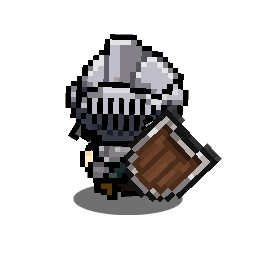
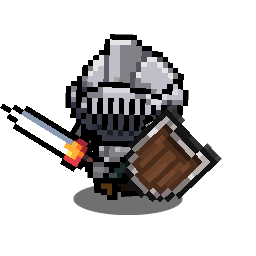
fix: render outfits as full-body composites, not race-form + overlays
Root cause of every outfit clipping report (knight hand poking out,
pink_archer showing blonde elf hair, dark_knight body bleeding past
horns): the equipment overlay system only covers Head/Chest/Legs/
Wrists/Feet/Weapon slots, so anything an outfit changes outside those
slots — hair, skin tone, ears, body markings, accessories — leaks
from the underlying race form. No amount of bald / armless variants
fixes this; the architecture itself can't transplant a character.

Every shop set and the Knight Set already has a pre-baked full-body
composite at Sets/<id>.png (the same image the Inventory cell shows).
ApplyAvatarLook now picks one of three render paths:

  1. activeSkin → Skins/<id>.png (existing)
  2. equipped exactly matches a SetDef → Sets/<set.id>.png (new)
  3. bare race form + per-slot overlays (legacy partial-equip path)

(2) hides all equipment overlay Images and uses the composite as the
sole portrait. Same shape as the skin path. The Knight Set composite
is re-baked via a new BakeCompose helper that renders human_11 (armor
+ shield) and elf_07's longsword in the same scene so the chain-quest
reward looks like a full silver knight with sword AND shield, instead
of human_11's empty-R_Weapon IDLE.

GamexGame.FindActiveOutfit(equipped) walks SetCatalog + KnightOutfit
to find the SetDef whose pieces fully match the equipped list.

The bald race-form variants and helmetEquipped portrait swap stay in
place — they still help the legacy partial-equip path (1 helmet w/o
[…]

Changed region(s): [[0.0, 0.4062, 0.375, 0.6875]]

diff --git a/Assets/_Game/Scripts/Editor/SPUMBaker.cs b/Assets/_Game/Scripts/Editor/SPUMBaker.cs
@@ -290,25 +290,27 @@ namespace Gamex.EditorTools
             EditorApplication.Exit(0);
         }
 
-        // Full-character Knight Set preview for the Inventory cell — same
-        // BakeOne(keepEquip:true) pipeline the shop sets use. Source is
-        // human_11 (silver bucket-helm + plate); the chain-quest sword from
-        // elf_07 isn't included because BakeOne only renders one prefab and
-        // human_11's IDLE pose reads as "the knight" without the sword.
+        // Full-character Knight Set preview for the Inventory paper-doll —
+        // human_11 (silver bucket-helm + plate + shield) composed with
+        // elf_07's right-hand silver longsword in one render so the
+        // composite reads as the full knight loadout. Both prefabs share
+        // the SPUM coordinate system so the overlay sword lands in the
+        // right-hand position.
         [MenuItem("Tools/Gamex/Bake Knight Set Preview")]
         public static void BakeKnightSetPreview()
         {
             string setsRoot = "Assets/_Game/Resources/Sets";
             Directory.CreateDirectory(setsRoot);
-            var prefab = AssetDatabase.LoadAssetAtPath<GameObject>(KNIGHT_PREFAB_ARMOR);
-            if (prefab == null)
+            var mainPrefab    = AssetDatabase.LoadAssetAtPath<GameObject>(KNIGHT_PREFAB_ARMOR);
+            var overlayPrefab = AssetDatabase.LoadAssetAtPath<GameObject>(KNIGHT_PREFAB_SWORD);
+            if (mainPrefab == null || overlayPrefab == null)
             {
-                Debug.LogError("[SPUMBaker] knight preview prefab not found: " + KNIGHT_PREFAB_ARMOR);
+                Debug.LogError("[SPUMBaker] knight preview prefab missing: armor=" + (mainPrefab == null) + " sword=" + (overlayPrefab == null));
                 return;
             }
             string outPath = $"{setsRoot}/knight_silver_set.png";
-            BakeOne(prefab, outPath, keepEquip: true);
-            Debug.Log("[SPUMBaker] knight_silver_set.png  <-  " + Path.GetFileName(KNIGHT_PREFAB_ARMOR));
+            BakeCompose(mainPrefab, overlayPrefab, outPath, new[] { "weapon" });
+            Debug.Log("[SPUMBaker] knight_silver_set.png  <-  human_11 + elf_07 sword");
             AssetDatabase.Refresh();
         }
 
@@ -495,6 +497,88 @@ namespace Gamex.EditorTools
             // without leaking, and destroy in dependency order.
             cam.targetTexture = null;
             Object.DestroyImmediate(instance);
+            Object.DestroyImmediate(camGO);
+            Object.DestroyImmediate(rt);
+            Object.DestroyImmediate(tex);
+        }
+
+        // Composite bake: render mainPrefab (full gear) with overlayPrefab's
+        // matching SRs drawn into the same image. Used when one SPUM prefab
+        // is missing a piece the equippable set should have — e.g. human_11
+        // (knight armor) has an empty R_Weapon in IDLE, so we add elf_07's
+        // longsword from the same coordinate space.
+        static void BakeCompose(GameObject mainPrefab, GameObject overlayPrefab, string outPath, string[] overlayKeys)
+        {
+            EditorSceneManager.NewScene(NewSceneSetup.EmptyScene, NewSceneMode.Single);
+
+            var main = (GameObject)PrefabUtility.InstantiatePrefab(mainPrefab);
+            main.transform.position   = Vector3.zero;
+            main.transform.localScale = Vector3.one;
+
+            var overlay = (GameObject)PrefabUtility.InstantiatePrefab(overlayPrefab);
+            overlay.transform.position   = Vector3.zero;
+            overlay.transform.localScale = Vector3.one;
+
+            // Strip the overlay prefab to only the SRs that match overlayKeys
+            // (chain-walked, case-insensitive). The activation-up-the-tree is
+            // needed because parents can be SetActive(false) in the prefab.
+            foreach (var sr in overlay.GetComponentsInChildren<SpriteRenderer>(true))
+            {
+                string chain = "";
+                for (var t = sr.transform; t != null; t = t.parent)
+                    chain += "/" + t.gameObject.name.ToLowerInvariant();
+                bool keep = false;
+                foreach (var kw in overlayKeys)
+                    if (chain.Contains(kw.ToLowerInvariant())) { keep = true; break; }
+                sr.enabled = keep;
+                if (keep)
+                {
+                    for (var t = sr.transform; t != null && t != overlay.transform.parent; t = t.parent)
+                        if (!t.gameObject.activeSelf) t.gameObject.SetActive(true);
+                }
+            }
+
+            var camGO = new GameObject("BakeCam");
+            var cam   = camGO.AddComponent<Camera>();
+            cam.orthographic       = true;
+            cam.orthographicSize   = 0.6f;
+            cam.transform.position = new Vector3(0f, 0.35f, -10f);
+            cam.clearFlags         = CameraClearFlags.SolidColor;
+            cam.backgroundColor    = new Color(0f, 0f, 0f, 0f);
+            cam.cullingMask        = ~0;
+
+            foreach (var anim in main.GetComponentsInChildren<Animator>())
+            {
+                if (anim.runtimeAnimatorController != null)
+                {
+                    anim.Update(0f); anim.Play(0, 0, 0f); anim.Update(0f);
+                }
+            }
+            foreach (var anim in overlay.GetComponentsInChildren<Animator>())
+            {
+                if (anim.runtimeAnimatorController != null)
+                {
+                    anim.Update(0f); anim.Play(0, 0, 0f); anim.Update(0f);
+                }
+            }
+
+            var rt = new RenderTexture(SIZE, SIZE, 32, RenderTextureFormat.ARGB32);
+            cam.targetTexture = rt;
+            cam.Render();
+
+            var prev = RenderTexture.active;
+            RenderTexture.active = rt;
+            var tex = new Texture2D(SIZE, SIZE, TextureFormat.RGBA32, false);
+            tex.ReadPixels(new Rect(0, 0, SIZE, SIZE), 0, 0);
+            tex.Apply();
+            RenderTexture.active = prev;
+
+            Directory.CreateDirectory(Path.GetDirectoryName(outPath));
+            File.WriteAllBytes(outPath, tex.EncodeToPNG());
+
+            cam.targetTexture = null;
+            Object.DestroyImmediate(main);
+            Object.DestroyImmediate(overlay);
             Object.DestroyImmediate(camGO);
             Object.DestroyImmediate(rt);
             Object.DestroyImmediate(tex);

diff --git a/Assets/_Game/Scripts/Presentation/Hud.cs b/Assets/_Game/Scripts/Presentation/Hud.cs
@@ -2233,16 +2233,41 @@ namespace Gamex.Game
                              List<string> equipped = null, string activeSkin = null)
         {
             if (avatar == null || avatar.portrait == null) return;
-            // Skins are full-body art — their weapons/armor are painted in,
-            // so applying equipment overlays on top would clash. Skip the
-            // overlay routing entirely when a skin is active.
+
+            // Three render paths, in priority order:
+            //   1. Skin active — full-body skin sprite, no overlays
+            //   2. Outfit fully equipped — full-body set composite, no overlays
+            //   3. Race form base — race-form sprite + per-slot equipment overlays
+            //
+            // (2) is the regression fix for "outfit overlays leak the underlying
+            // race form's hair / skin / accessories". Every shop set and the
+            // Knight Set has a pre-baked Sets/<id>.png composite, so when the
+            // player has a fully matching set on we render that one sprite and
+            // skip the overlay routing entirely — same shape as the skin path.
             bool skinActive = !string.IsNullOrEmpty(activeSkin) && Make.Skin(activeSkin) != null;
-            // Helmet-on bald base swap: scan equipped for a Head slot so
-            // Make.Portrait loads {race}_{gender}_bald.png instead of the
-            // haired sprite, preventing hair from clipping through the
-            // overlay. Pre-race (Race.Unset) characters don't wear armour.
+            var activeOutfit = (!skinActive && race != Race.Unset)
+                ? GamexGame.FindActiveOutfit(equipped) : null;
+            Sprite outfitSprite = activeOutfit != null ? Make.SetPreview(activeOutfit.id) : null;
+
+            if (skinActive || outfitSprite != null)
+            {
+                avatar.portrait.sprite = outfitSprite != null ? outfitSprite : Make.Skin(activeSkin);
+                float aOverride = avatar.portrait.color.a;
+                avatar.portrait.color = new Color(1f, 1f, 1f, aOverride);
+                SetOverlay(avatar.sword,     null, aOverride);
+                SetOverlay(avatar.armor,     null, aOverride);
+                SetOverlay(avatar.helmet,    null, aOverride);
+                SetOverlay(avatar.leggings,  null, aOverride);
+                SetOverlay(avatar.gauntlets, null, aOverride);
+                SetOverlay(avatar.boots,     null, aOverride);
+                return;
+            }
+
+            // Race-form path — partial / non-set equipment overlaid on the
+            // bare race form. The bald variant kicks in when a Head slot is
+            // occupied (helmet on a smooth scalp instead of through hair).
             bool helmetEquipped = false;
-            if (!skinActive && race != Race.Unset && equipped != null)
+            if (race != Race.Unset && equipped != null)
             {
                 foreach (var id in equipped)
                     if (GamexGame.SlotOf(id) == GamexGame.EquipSlot.Head) { helmetEquipped = true; break; }
@@ -2251,13 +2276,7 @@ namespace Gamex.Game
                 gender == Gender.Unset ? Gender.Male : gender, curse, race, stage, activeSkin, helmetEquipped);
             float a = avatar.portrait.color.a;
             avatar.portrait.color = new Color(1f, 1f, 1f, a);
-            if (skinActive) equipped = null;
 
-            // Equipment overlays: only on race-form characters (Lv 20+). Pre-race
-            // skeleton / zombie bodies don't wear armour — and the overlay sprites
-            // are positioned for the race-form silhouette anyway. Slot routing
-            // is centralised in GamexGame.SlotOf so the Inventory paper-doll
-            // and the avatar overlay agree on where each item lives.
             string swordId = null, armorId = null, helmetId = null,
                    leggingsId = null, gauntletsId = null, bootsId = null;
             if (race != Race.Unset && equipped != null)

diff --git a/Assets/_Game/Scripts/Core/GamexGame.cs b/Assets/_Game/Scripts/Core/GamexGame.cs
@@ -562,6 +562,29 @@ namespace Gamex.Core
             return true;
         }
 
+        // Returns the SetDef whose pieces exactly fill the given equipped
+        // list, or null if equipped doesn't match any known outfit. Drives
+        // the "render the full-body composite" path in ApplyAvatarLook so
+        // outfits use one pre-baked sprite (no clipping) instead of N per-
+        // slot overlays on top of the race form (which leak hair / skin /
+        // accessories the equipment overlays can't cover).
+        public static SetDef FindActiveOutfit(System.Collections.Generic.List<string> equipped)
+        {
+            if (equipped == null || equipped.Count == 0) return null;
+            foreach (var set in SetCatalog)
+                if (MatchesPieces(equipped, set.pieces)) return set;
+            if (MatchesPieces(equipped, KnightOutfit.pieces)) return KnightOutfit;
+            return null;
+        }
+
+        static bool MatchesPieces(System.Collections.Generic.List<string> equipped, EquipmentDef[] pieces)
+        {
+            if (equipped.Count != pieces.Length) return false;
+            foreach (var p in pieces)
+                if (!equipped.Contains(p.id)) return false;
+            return true;
+        }
+
         // Equipment slots — the Inventory paper-doll has exactly one cell per slot,
         // so equipping a new item replaces whatever else is in that slot. Catalog
         // IDs follow naming conventions so this routing can be done by string
